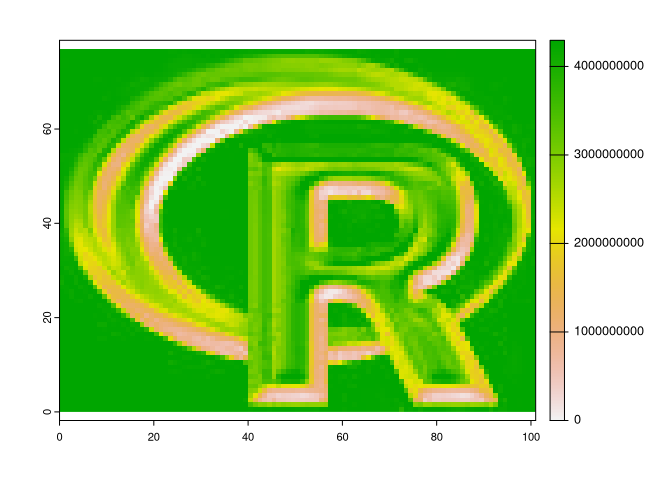
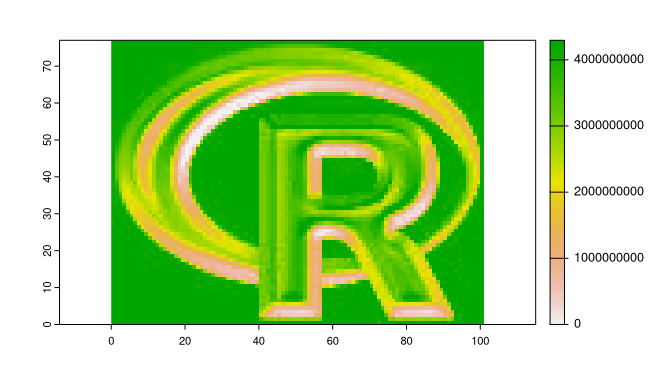
improves readme

diff --git a/README.md b/README.md
@@ -25,7 +25,7 @@ remotes::install_github("Nowosad/reedsolomon")
 library(terra)
 #> terra 1.6.46
 s1 = rast(system.file("ex/logo.tif", package = "terra"))
-plot(s1)
+plot(s1, 1:3, nr = 1)
 ```
 
 <img src="man/figures/README-unnamed-chunk-2-1.png" width="100%" />
